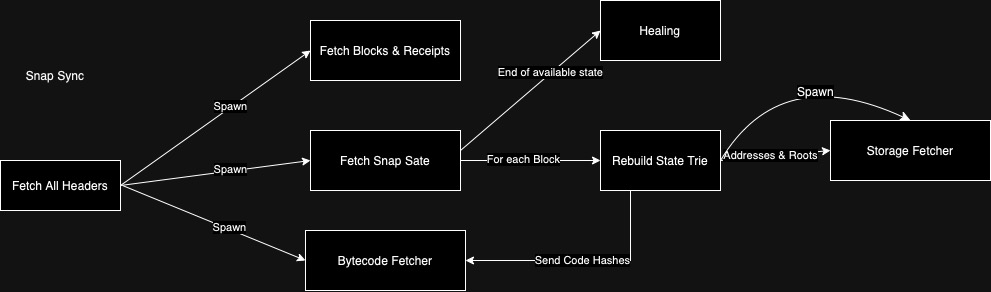
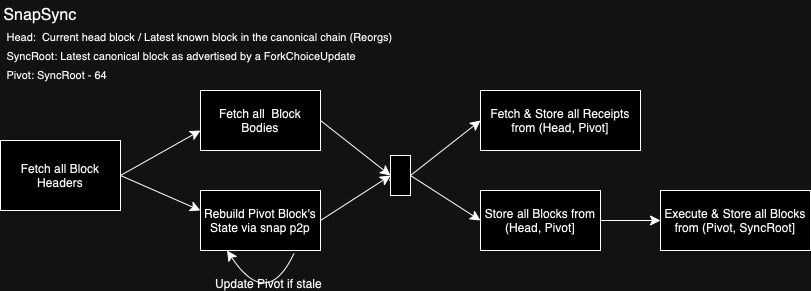
Update doc

diff --git a/crates/networking/docs/Sync.md b/crates/networking/docs/Sync.md
@@ -2,23 +2,27 @@
 
 ## Snap Sync
 
-A snap sync cycle begins by fetching all the block headers (via p2p) between the current head (latest canonical block) and the sync head (block hash sent by a forkChoiceUpdate).
-The next two steps are performed in parallel:
-On one side, blocks and receipts for all fetched headers are fetched via p2p and stored.
-
-On the other side, the state is reconstructed via p2p snap requests. Our current implementation of this works as follows:
-We will spawn two processes, the `bytecode_fetcher` which will remain active and process bytecode requests in batches by requesting bytecode batches from peers and storing them, and the `fetch_snap_state` process, which will iterate over the fetched headers and rebuild the block's state via `rebuild_state_trie`.
-
-`rebuild_state_trie` will spawn a `storage_fetcher` process (which works similarly to the `bytecode_fetcher` and is kept alive for the duration of the rebuild process), it will open a new state trie and will fetch the block's accounts in batches and for each account it will: send the account's code hash to the `bytecode_fetcher` (if not empty), send the account's address and storage root to the `storage_fetcher` (if not empty), and add the account to the state trie. Once all accounts are processed, the final state root will be checked and committed.
-
-(Not implemented yet) When `fetch_snap_state` runs out of available state (aka, the state we need to fetch is older than 128 blocks and peers don't provide it), it will begin the `state_healing` process.
+A snap sync cycle begins by fetching all the block headers (via eth p2p) between the current head (latest canonical block) and the sync head (block hash sent by a forkChoiceUpdate).
+We will then fetch the block bodies from each header and at the same time we will select a pivot block (sync head - 64) and start rebuilding its state via snap p2p requests, if the pivot were to become stale during this rebuild we will select a newer pivot (sync head) and restart it.
+After we fully rebuilt the pivot state and fetched all the block bodies we will fetch and store the receipts for the range between the current head and the pivot (including it), and at the same time store all blocks in the same range and execute all blocks after the pivot (like in full sync).
 This diagram illustrates the process described above:
 
-![snap_sync](/crates/networking/docs/diagrams/snap_sync.jpg)
+![snap_sync](/crates/networking/docs/diagrams/snap_sync.jpg).
 
-The `bytecode_fetcher` has its own channel where it receives code hashes from active `rebuild_state_trie` processes. Once a code hash is received, it is added to a pending queue. When the queue has enough messages for a full batch it will request a batch of bytecodes via snap p2p and store them. If a bytecode could not be fetched by the request (aka, we reached the response limit) it is added back to the pending queue. After the whole state is synced `fetch_snap_state` will send an empty list to the `bytecode_fetcher` to signal the end of the requests so it can request the last (incomplete) bytecode batch and end gracefully.
+### Snap State Rebuild
+
+During snap sync we need to fully rebuild the pivot block's state. We can divide this process into the initial sync and the healing phase.
+For the first phase we will spawn two processes, the `bytecode_fetcher` and the `storage_fetcher` which will both remain active and listening for requests from the main rebuild process which they will then queue and process in fixed size batches (more on this later). It will then request the full extent of accounts from the pivot block's state trie via p2p snap requests. For each obtained range we will send the account's code hash and storage root to the `bytecode_fetcher` and `storage_fetcher` respectively for fetching. Once we fetch all accounts (or the account state is no longer available), we will signal the `storage_fetcher` to finish all pending requests and move on to the next phase, while keeping the `bytecode_fetcher` active.
+In the healing phase we will spawn another queue-like process called `storage_healer`, and we will begin requesting state trie nodes. We will begin by requesting the pivot block's state's root node proceed by requesting the current node's children (if they are not already part of the state) until we have the full trie stored (aka all child nodes are known). For each fetched leaf node we will send its code hash to the `bytecode_fetcher` and account hash to the `storage_healer`.
+The `storage_healer` will contain a list of pending account hashes and paths. And will add new entries by either adding the root node of an account's storage trie when receiving an account hash from the main process or by adding the unknown children of nodes returned by peers.
+
+This diagram illustrates the process described above:
+
+![rebuild_state](/crates/networking/docs/diagrams/rebuild_state_trie.jpg).
+
+To exemplify how queue-like processes work we will explain how the `bytecode_fetcher` works:
+
+The `bytecode_fetcher` has its own channel where it receives code hashes from an active `rebuild_state_trie` process. Once a code hash is received, it is added to a pending queue. When the queue has enough messages for a full batch it will request a batch of bytecodes via snap p2p and store them. If a bytecode could not be fetched by the request (aka, we reached the response limit) it is added back to the pending queue. After the whole state is synced `fetch_snap_state` will send an empty list to the `bytecode_fetcher` to signal the end of the requests so it can request the last (incomplete) bytecode batch and end gracefully.
 This diagram illustrates the process described above:
 
 ![snap_sync](/crates/networking/docs/diagrams/bytecode_fetcher.jpg)
-
-The `storage_fetcher` works almost alike, but one will be spawned for each `rebuild_state_trie` process as we can't fetch storages from different blocks in the same request.
